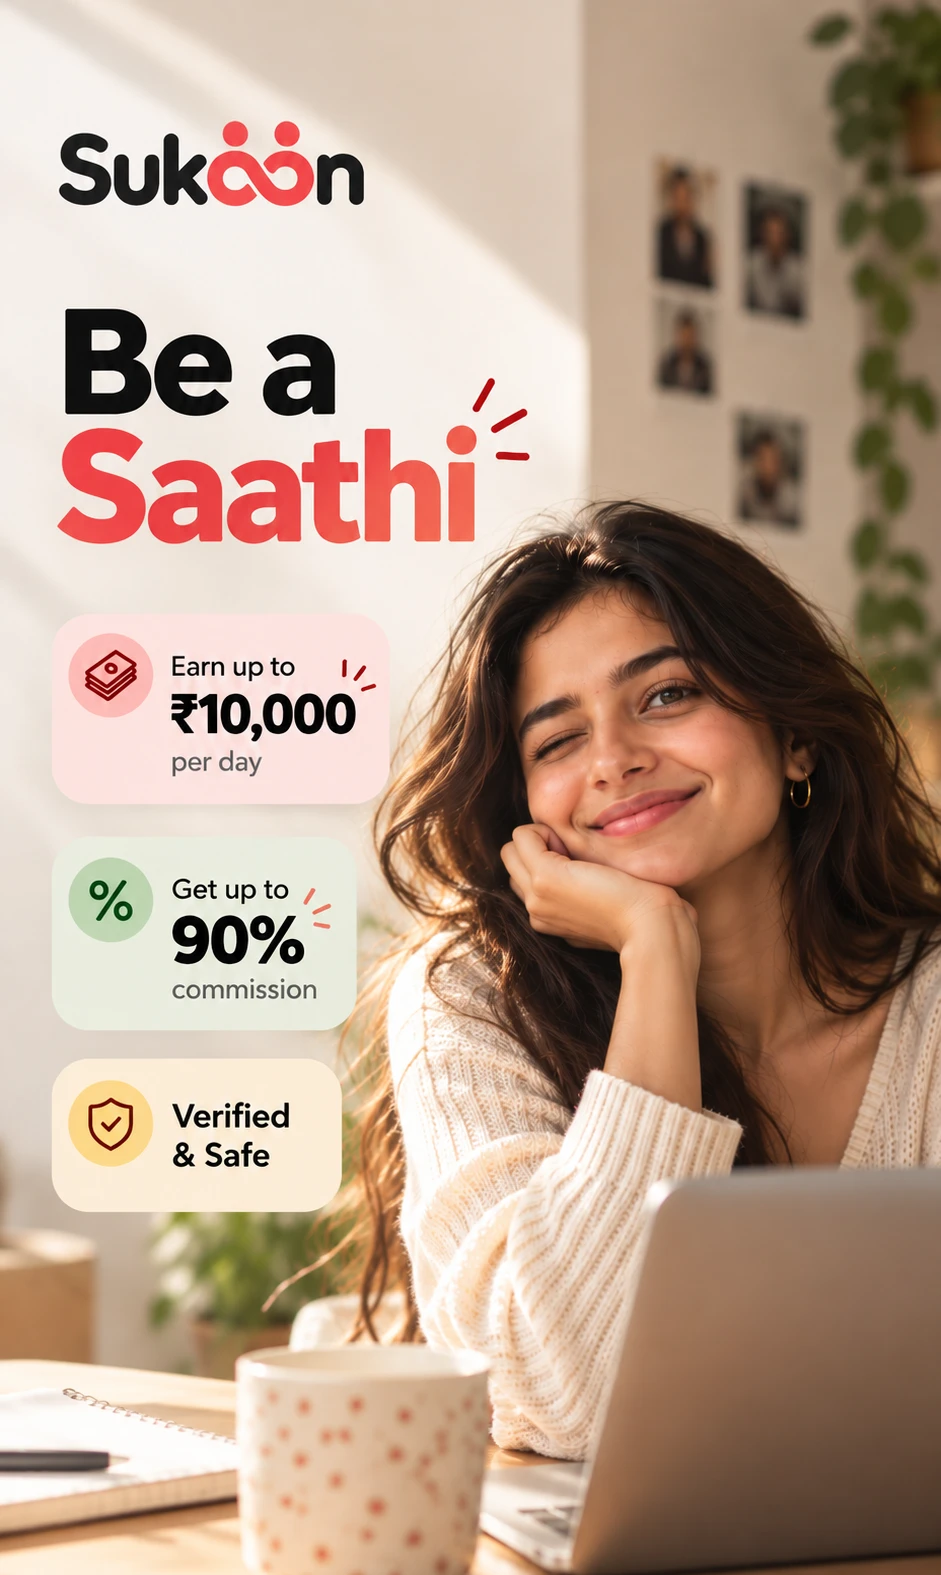
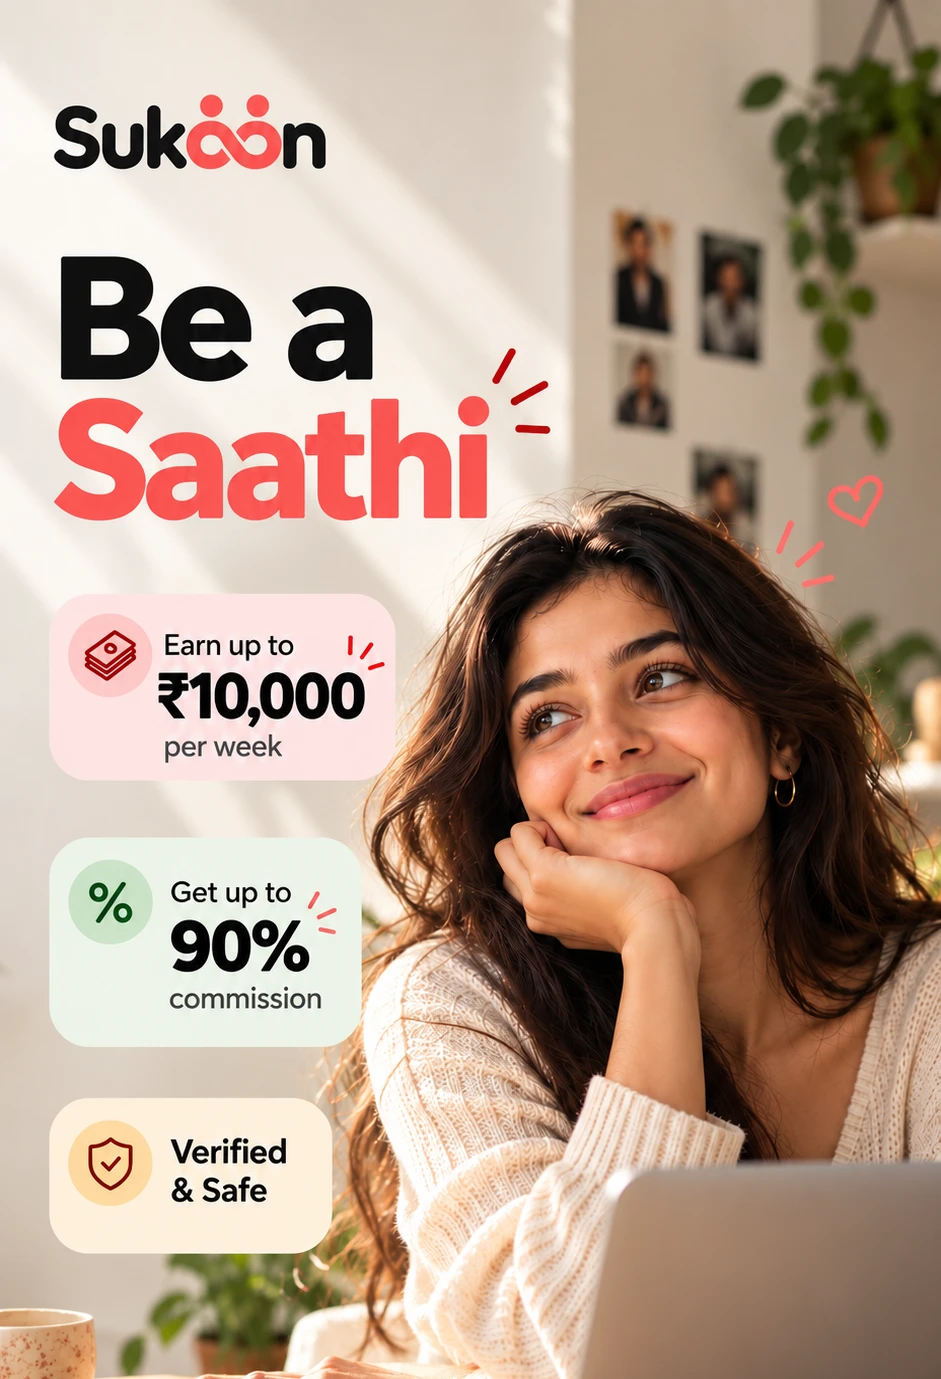
Update Saathi application intro hero image

diff --git a/src/app/saathi/apply/page.tsx b/src/app/saathi/apply/page.tsx
@@ -181,7 +181,7 @@ export default function SaathiApplyPage() {
         <div className="relative min-h-0 w-full flex-1 overflow-hidden rounded-b-xl2">
           <Image
             src="/saathi/be-a-saathi-hero.webp"
-            alt="Be a Saathi — earn up to ₹10,000 per day, up to 90% commission, verified and safe"
+            alt="Be a Saathi — earn up to ₹10,000 per week, up to 90% commission, verified and safe"
             fill
             priority
             className="object-cover object-top"
